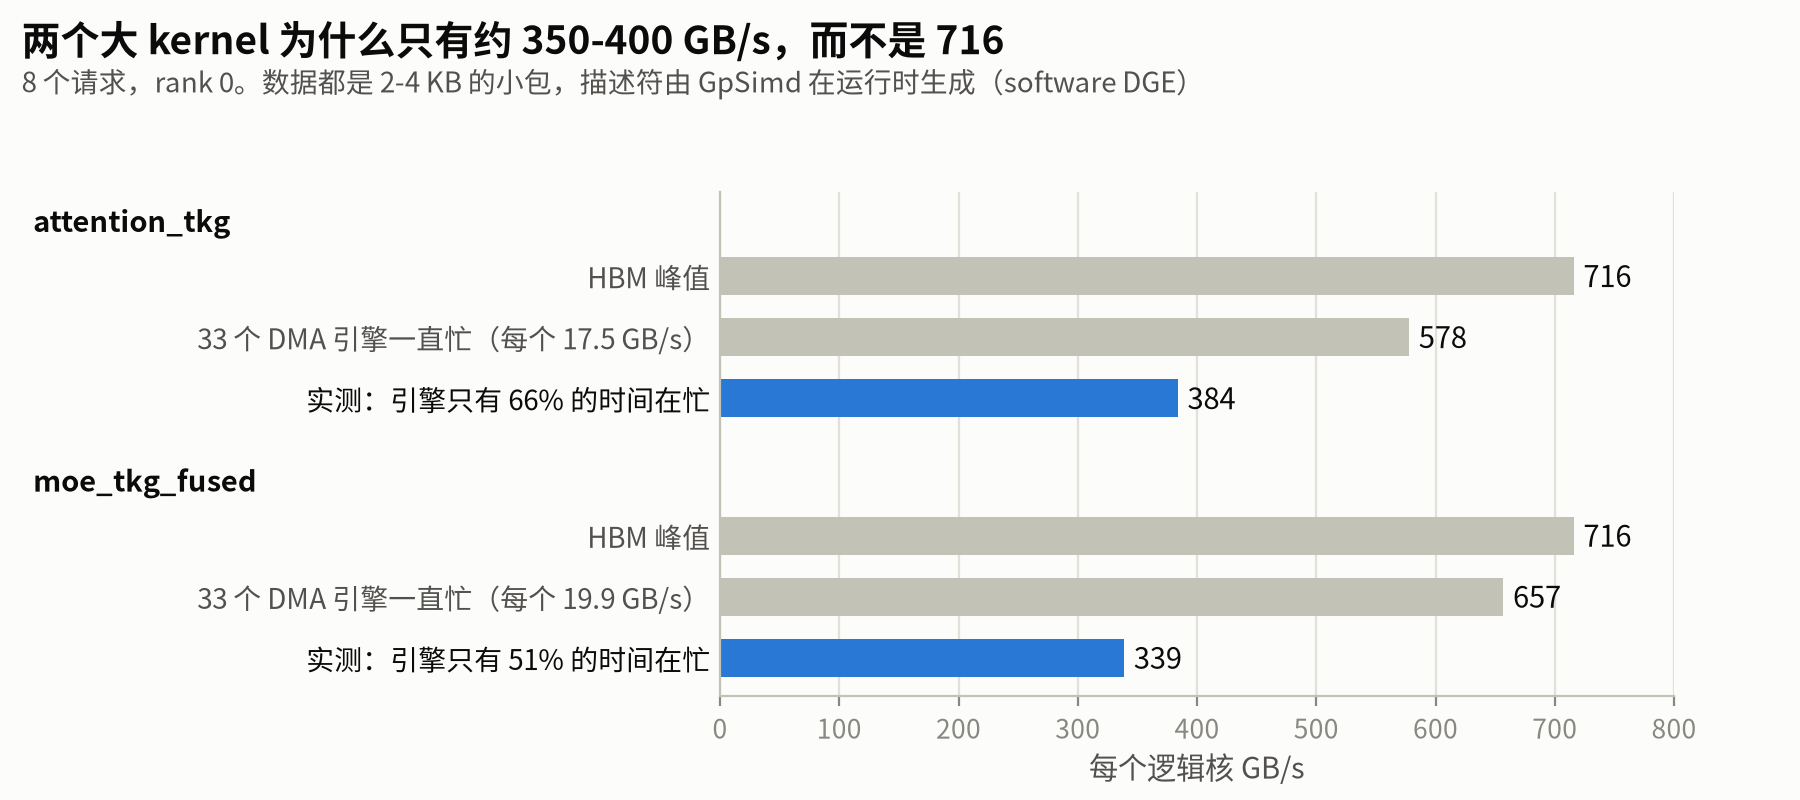
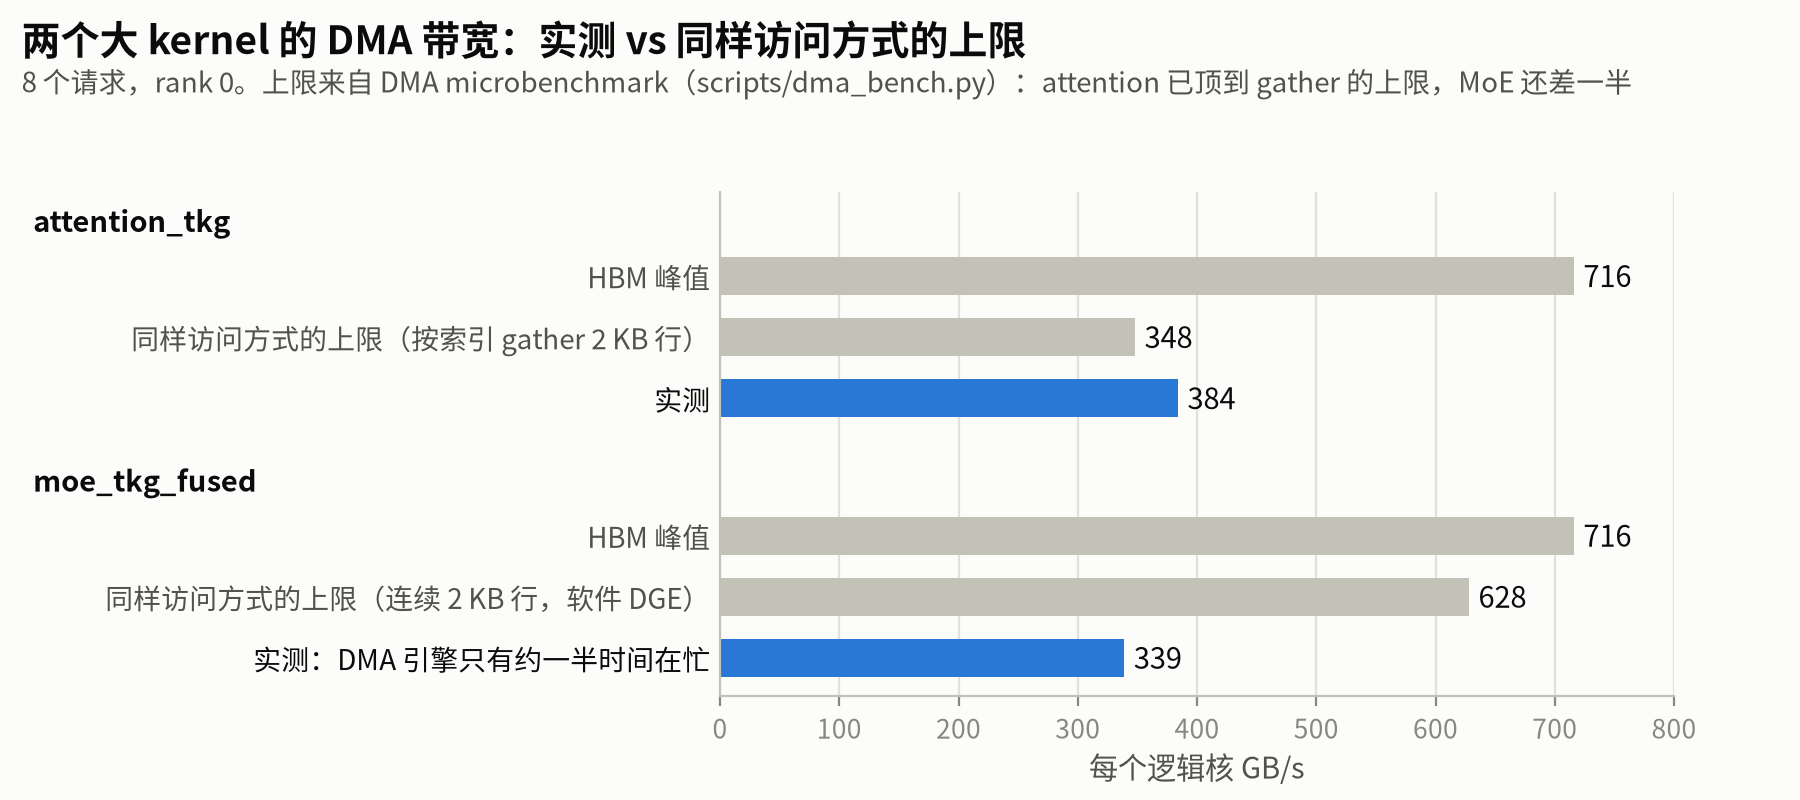
contrib/hy_v3: decode block profile at DCP=8 (1 request), DMA ceilings from the benchmark
scripts/profile_85k.sh takes DCP (with MTP it sets VLLM_NEURON_DCP_SPEC_DECODE=1) and defaults
NEURON_RT_EXEC_TIMEOUT to 1200, which DMA-traced sessions need. profile_block.py reports the
collectives inside a phase (DCP's attention exchange) and keeps them out of the idle time.

DCP=8, 1 request, dense, FP8 KV, MTP k=3, per layer: attention 134 us (174 at DCP=1, bound 7),
all-reduces 21 + 29 us, MoE 170 us; target 29.0 ms per step (32.5). attention_tkg reads 1/8 of the
KV (128 -> 32 us), but the cross-rank combine (27 us), three 8-rank collectives (17 us) and 40 us
with nothing running remain. Open in this configuration: MTP accepts 1.1 tokens per step (2.3
without DCP), and the 8-request session hung (workers stopped without an error), so it is not
profiled.

The DMA-ceiling figure now compares each kernel with the microbenchmark ceiling of its access
pattern (2 KB gather 348 GB/s for attention, contiguous 2 KB rows 628 GB/s for MoE) instead of an
"all engines busy" extrapolation that does not hold for a gather.

diff --git a/contrib/models/hy_v3/scripts/plot_decode_block.py b/contrib/models/hy_v3/scripts/plot_decode_block.py
@@ -161,15 +161,15 @@ def fig_attention():
 
 # ---- 4: why the DMA stops near 400 GB/s ----------------------------------------------------------
 def fig_dma():
-    rows = [  # dma_engines_c8.txt
-        ("attention_tkg", "HBM 峰值", 716), ("attention_tkg", "33 个 DMA 引擎一直忙（每个 17.5 GB/s）", 578),
-        ("attention_tkg", "实测：引擎只有 66% 的时间在忙", 384),
-        ("moe_tkg_fused", "HBM 峰值", 716), ("moe_tkg_fused", "33 个 DMA 引擎一直忙（每个 19.9 GB/s）", 657),
-        ("moe_tkg_fused", "实测：引擎只有 51% 的时间在忙", 339)]
+    rows = [  # measured: dma_engines_c8.txt; ceilings: results/dma_bench (same access pattern, 2 KB rows)
+        ("attention_tkg", "HBM 峰值", 716), ("attention_tkg", "同样访问方式的上限（按索引 gather 2 KB 行）", 348),
+        ("attention_tkg", "实测", 384),
+        ("moe_tkg_fused", "HBM 峰值", 716), ("moe_tkg_fused", "同样访问方式的上限（连续 2 KB 行，软件 DGE）", 628),
+        ("moe_tkg_fused", "实测：DMA 引擎只有约一半时间在忙", 339)]
     fig, ax = plt.subplots(figsize=(9, 4.0))
     fig.subplots_adjust(left=0.40, right=0.93, top=0.76, bottom=0.13)
-    titles(fig, "两个大 kernel 为什么只有约 350-400 GB/s，而不是 716",
-           "8 个请求，rank 0。数据都是 2-4 KB 的小包，描述符由 GpSimd 在运行时生成（software DGE）")
+    titles(fig, "两个大 kernel 的 DMA 带宽：实测 vs 同样访问方式的上限",
+           "8 个请求，rank 0。上限来自 DMA microbenchmark（scripts/dma_bench.py）：attention 已顶到 gather 的上限，MoE 还差一半")
     ys = [5.6, 4.8, 4.0, 2.2, 1.4, 0.6]
     for (k, step, v), y in zip(rows, ys):
         meas = step.startswith("实测")
@@ -221,7 +221,52 @@ def fig_dma_bench():
     save(fig, "dma_bench.png")
 
 
+# ---- 6: DCP=8 vs DCP=1, one request -------------------------------------------------------------
+DCP_ROWS = [  # block_c1.txt, block_dcp8_c1.txt; DCP=8 bound: 1/8 of the KV (2.75 MB) + 2.1 MB weights
+    ("DCP=1  实测", [("attention", 173.9), ("all-reduce", 23.6), ("MoE", 172.0), ("all-reduce", 24.8)]),
+    ("DCP=8  实测", [("attention", 133.5), ("all-reduce", 21.3), ("MoE", 170.4), ("all-reduce", 29.3)]),
+    ("DCP=8  带宽下限", [("attention", 7), ("all-reduce", 22), ("MoE", 85), ("all-reduce", 22)]),
+]
+ATT_DCP8 = [  # attention phase at DCP=8, 1 request (us per layer; block_dcp8_c1.txt)
+    ("读 KV 算 attention（attention_tkg）", 32.3), ("DCP 合并代码（attention_block_tkg_sharding）", 26.6),
+    ("DCP 的 8 rank 集合通信", 16.6), ("attention block 其余（glue、写 cache）", 15.7), ("QKV / O 投影", 15.0),
+    ("引擎全空闲", 39.7)]
+
+
+def fig_dcp():
+    fig, (ax, bx) = plt.subplots(2, 1, figsize=(9, 5.6), gridspec_kw={"height_ratios": [1.1, 1.4]})
+    fig.subplots_adjust(left=0.36, right=0.92, top=0.80, bottom=0.08, hspace=0.55)
+    titles(fig, "DCP=8（1 个请求）：attention 读 KV 变成 1/8，但固定开销留下了",
+           "第 1-79 层中位数，rank 0，dense attention，FP8 KV，MTP k=3。上：一层；下：DCP=8 时 attention 阶段的组成")
+    ys = [2.0, 1.0, 0.0]
+    for (label, parts), y in zip(DCP_ROWS, ys):
+        x = 0
+        for p, v in parts:
+            ax.barh(y, max(v - 2, 0.5), left=x, height=0.55, color=COL[p], linewidth=0)
+            if v > 40:
+                ax.text(x + v / 2, y, f"{v:.0f}", ha="center", va="center", color="white", fontsize=9.5)
+            x += v
+        ax.text(x + 6, y, f"{x:.0f} µs", va="center", color=INK, fontsize=10)
+    ax.set_yticks(ys, [l for l, _ in DCP_ROWS])
+    for t, (l, _) in zip(ax.get_yticklabels(), DCP_ROWS):
+        t.set_color(INK if "实测" in l else INK2)
+    ax.set_xlim(0, 450); ax.set_ylim(-0.5, 2.5); ax.tick_params(axis="y", length=0)
+    ax.set_xlabel("每层 µs", fontsize=9.5); xgrid(ax)
+    legend(fig, ["attention", "all-reduce", "MoE"], [BLUE, ORANGE, AQUA], 0.36, 0.875)
+    names = [n for n, _ in ATT_DCP8][::-1]
+    vals = [v for _, v in ATT_DCP8][::-1]
+    cols = [AXIS if "空闲" in n else (ORANGE if "集合通信" in n else BLUE) for n in names]
+    bx.barh(range(len(vals)), vals, height=0.55, color=cols, linewidth=0)
+    for i, v in enumerate(vals):
+        bx.text(v + 1, i, f"{v:.0f}", va="center", color=INK, fontsize=9.5)
+    bx.set_yticks(range(len(vals)), names); bx.tick_params(axis="y", length=0)
+    bx.set_xlim(0, 50); bx.set_xlabel("µs（各部分是指令时间的并集，彼此有少量重叠；attention 阶段共 134 µs，下限约 7 µs）", fontsize=9)
+    xgrid(bx)
+    save(fig, "dcp8_c1.png")
+
+
 if __name__ == "__main__":
+    fig_dcp()
     fig_dma_bench()
     fig_layer()
     fig_timeline("c1", "1 个请求")

diff --git a/contrib/models/hy_v3/scripts/profile_block.py b/contrib/models/hy_v3/scripts/profile_block.py
@@ -61,6 +61,7 @@ def dma_in(iv):
 
 
 allv = merge(ins[["start_ts", "end_ts"]].to_numpy())
+ccv = merge(cc[cc.operation != "BARRIER"][["start_ts", "end_ts"]].to_numpy())
 ins = ins.sort_values("start_ts"); st = ins.start_ts.to_numpy()
 rows = []
 for i in range(nl):
@@ -73,7 +74,8 @@ for i in range(nl):
         r[ph + "|DMA"] = int(dby[(dts >= s) & (dts < t)].sum())
     for ph, (s, t) in {"attn": (w0, a0), "moe": (a1, m0)}.items():
         g = ins.iloc[np.searchsorted(st, s):np.searchsorted(st, t)]
-        r[ph + "|idle"] = (t - s) - length(clip(allv, s, t))
+        r[ph + "|idle"] = (t - s) - length(merge(np.vstack([clip(allv, s, t), clip(ccv, s, t)])))
+        r[ph + "|cc"] = length(clip(ccv, s, t))  # collectives inside the phase (DCP's attention exchange)
         r[ph + "|DMA"] = int(dby[(dts >= s) & (dts < t)].sum())
         for p, gp in g.groupby("part"):
             iv = clip(merge(gp[["start_ts", "end_ts"]].to_numpy()), s, t)
@@ -95,7 +97,7 @@ print(f"whole step: {(t1 - t0) / 1e6:.2f} ms; sum of layer spans {df.span.sum() 
       f"attention {df.attn.sum() / 1e6:.2f}, attn AR {df.attn_AR.sum() / 1e6:.2f}, MoE {df.moe.sum() / 1e6:.2f}, MoE AR {df.moe_AR.sum() / 1e6:.2f}")
 for ph in ("attn", "moe"):
     print(f"\n[{ph} phase] {us(med[ph]):.1f} us, DMA {med[ph + '|DMA'] / 1e6:.2f} MB ({med[ph + '|DMA'] / max(med[ph], 1):.0f} GB/s), "
-          f"idle {us(med[ph + '|idle']):.1f} us; engine busy: " +
+          f"collectives inside {us(med[ph + '|cc']):.1f} us, idle {us(med[ph + '|idle']):.1f} us; engine busy: " +
           " ".join(f"{k.split('|')[2]} {us(med[k]):.0f}" for k in med.index if k.startswith(ph + "|eng|")))
     print(f"  {'group':28s} {'us':>7s} {'DMA MB':>7s} {'GB/s':>6s} {'instr':>6s}  engine busy us")
     ks = sorted([k for k in med.index if k.startswith(ph + ":") and "|" not in k], key=lambda k: -med[k])

diff --git a/contrib/models/hy_v3/docs/DECODE_BLOCK_PROFILE.md b/contrib/models/hy_v3/docs/DECODE_BLOCK_PROFILE.md
@@ -117,7 +117,9 @@ c8, per DMA engine (`profile_dma_engines.py`):
 - when busy, each moves 17.5 GB/s. A 2 KB software-DGE packet takes about 100 ns;
 - 33 x 17.5 GB/s x 0.66 = 384 GB/s.
 
-Busy all the time, the same packets would give about 580-670 GB/s.
+These busy fractions are upper bounds: tiny completion packets (4-32 B) count as busy time. And
+"all engines busy" does not give 33 x 17.5 GB/s for a gather: the DMA microbenchmark below puts a
+2 KB-row gather at 348 GB/s, so the kernel is already at that access pattern's ceiling.
 
 What bounds it:
 - **The KV is read in 2 KB pieces.** One KV head per rank and 32-token paged blocks give 4 KB of K
@@ -149,8 +151,6 @@ descriptors.
 
 The single-core benchmark of the routed part (0.127 ms, README "Fused decode MoE") is the kernel
 alone. In the model the whole MoE block takes 166-191 us, about 2x its HBM bound.
-
-![DMA ceiling of the two kernels](decode_block_profile/dma_ceiling.png)
 
 ## DMA microbenchmark: what a 2 KB row costs
 
@@ -192,6 +192,10 @@ What this says about the model:
 
 The transposing gather that `attention_tkg` uses for K (`DMA_GATHER_TRANSPOSE`) is not covered here.
 
+The two kernels against the ceiling of their own access pattern:
+
+![DMA ceiling of the two kernels](decode_block_profile/dma_ceiling.png)
+
 ## Collectives and overlap
 
 All 161 all-reduces of a step are 64-rank `Mesh` all-reduces (CcOp table):
@@ -215,6 +219,45 @@ So only independent work can hide them, mainly the next kernel's weight loads (a
 fit in 28 us at 400 GB/s). Neither the compiler nor the kernels schedule such a prefetch across a
 kernel boundary today. The megakernel prototype (8 layers in one NKI kernel, no explicit DMA
 schedule) did not change device time.
+
+## DCP=8 (1 request)
+
+The same setup with `DCP=8` (`scripts/profile_85k.sh` now takes `DCP`; with MTP it sets
+`VLLM_NEURON_DCP_SPEC_DECODE=1`). DCP=8 shards each KV head's history over the 8 ranks that hold it,
+so each rank reads 1/8 of the KV. Each layer still has its two 64-rank all-reduces. Attention adds
+three 8-rank collectives (an AllGather of 1 KB, one of 256 B and an AllToAll of 8 KB, 5-7 us each).
+Results: `results/profile_decode_block/block_dcp8_c1.txt`, `kernel_dcp8_c1.txt`.
+
+| per layer (1 request) | DCP=1 | DCP=8 | DCP=8 bound |
+|---|---|---|---|
+| attention | 174 us | 134 us | 7 us (2.75 MB of KV + 2.1 MB of weights) |
+| all-reduce after attention | 24 us | 21 us | 22 us |
+| MoE | 172 us | 170 us | 85 us |
+| all-reduce after MoE | 25 us | 29 us | 22 us |
+| target NEFF / MTP draft NEFF | 32.5 / 3.0 ms | 29.0 / 2.3 ms | |
+
+![DCP=8 vs DCP=1, one request](decode_block_profile/dcp8_c1.png)
+
+- **The KV read becomes 1/8.** `attention_tkg` goes from 128 to 32 us per layer and from 16.6 to
+  2.2 MB.
+- **DCP adds fixed cost that takes most of the gain back:**
+  - the cross-rank combine in `attention_block_tkg_sharding` takes 27 us, 21 of them Sync-engine waits;
+  - the three 8-rank collectives take 17 us;
+  - no engine and no collective runs for 40 us of the phase.
+- **Attention at DCP=8 is almost all fixed cost:** 134 us against a 7 us bound. What is left to
+  remove is the block's fixed work, not the KV traffic.
+
+Two problems showed up in this configuration (dense decode, max_model_len 86016, batch buckets 1 / 8).
+Both are open:
+- **MTP accepts almost nothing.** The server reported a mean acceptance length of 1.08-1.12 tokens
+  per step, against 2.3 without DCP on the same prompts. So the per-step times above are right, but
+  this configuration produces fewer tokens per step than it should.
+- **The 8-request session did not run.** With 7 requests decoding and the 8th prefilling, all
+  workers stopped without an error; the engine gave up after 5 minutes. A restart then hung in
+  warmup (all workers spinning, no compiler running), and that run was stopped.
+- The deployed DCP configuration (`serve_agentx_dcp.sh`) differs: sparse decode, batch buckets
+  1 / 2 / 4 / 8, max_model_len 262144. It ran AgentX at C = 1-16 without a hang (README), but its MTP
+  acceptance is not recorded.
 
 ## Why the model maps badly onto the machine
 
